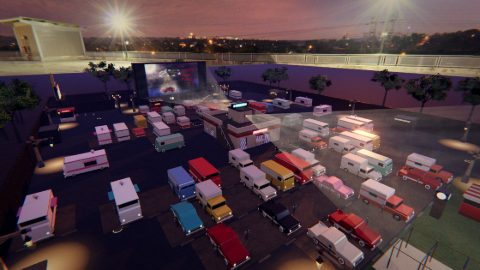
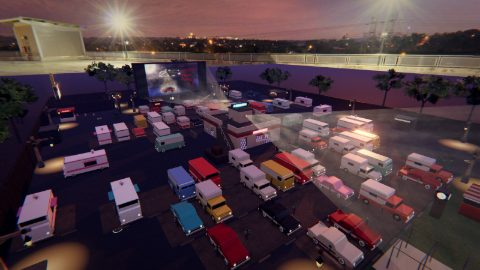
Maps: more cover and a raised second level on Shuran, Drive-In, Tarsa and Pioneer
Measured against a Black Ops 2 reference map (Raid), our maps were the right size and storey heights but too
open and too flat. New 'dock' building piece: a raised concrete platform (about 1 m) with steps, mirrored
with the rest of a map. Shuran: the north-lane house's roof is now reachable (stairs, parapets), a loading
dock in the container yard, a plinth in mid, crates and sandbags (27% -> 30% built over). Drive-In: a raised
viewing deck by the snack bar, an equipment trailer, reel crates, a dumpster and a barrier per half. Tarsa: a
raised market stage on the plaza. Pioneer: barriers and crates in the open plaza and spawn lots. Clean map
audits (Shuran's three old flicker spots fixed too).

diff --git a/js/world.js b/js/world.js
@@ -49,6 +49,7 @@ const TARSA_HALF = [
   // plaza edge: low walls that give the plaza cover without closing it
   [9, 7.5, 0.6, 5, 1.1, 0, 'wall', 0],
   [10, -6.5, 3, 0.8, 1.1, 0, 'sand'],
+  [5, -10, 5, 3, 1.0, 0, 'dock', { steps: 'n', tint: 0xc4b8a4 }],   // a raised market stage: the plaza's second level
   // mid street: low market arcades on alternating sides, so the lane bends instead of running straight
   [27.5, 9.25, 7, 5.5, 3.2, 0, 'house', { s: [['d', -1.6], ['w', 1.6]], w: [['d', -1.2]], e: [['w', 1.3]], props: [['crates', 2, 0.8]] }],   // against the north divider
   [15.5, -9.25, 7, 5.5, 3.2, 0, 'house', { n: [['d', 1.6], ['w', -1.6]], e: [['d', 1.2]], w: [['w', -1.3]], props: [['shelf', -1.6, 0, 1]] }], // against the south divider
@@ -189,6 +190,12 @@ const SHURAN_HALF = [
   [12, -27, 2, 2, 2, 0, 'pallet'],
   [3, -24, 0.8, 3, 1.1, 0, 'sand'],
   [4, -29, 2, 2, 1.8, 0, 'crate'],
+  // a second level: the north-lane house's roof (stairs up its south face, parapets), a loading dock in the yard
+  // and a raised plinth in mid, all a metre or more up (measured against BO2's Raid: 0 / +1 / 3 m levels)
+  [12, 23.85, 7, 0.3, 0.6, 3.45, 'parapet'], [15.35, 20.85, 0.3, 5.7, 0.6, 3.45, 'parapet'], [8.65, 20.85, 0.3, 5.7, 0.6, 3.45, 'parapet'], [10.75, 18.15, 4.5, 0.3, 0.6, 3.45, 'parapet'],
+  [25, -24, 5, 4, 1.0, 0, 'dock', { steps: 'n' }], [24, -24.5, 1.5, 1.5, 1.5, 1.0, 'crate'],
+  [15.5, -3.5, 4, 3, 1.0, 0, 'dock', { steps: 'w' }],
+  [3, 20.2, 1.6, 1.6, 1.6, 0, 'crate'], [3.1, 20.2, 1.3, 1.3, 1.3, 1.6, 'crate'], [16, 26.5, 3, 0.8, 1.1, 0, 'sand'], [22, -28.3, 3, 0.8, 1.1, 0, 'sand'],
   // spawn
   [28.5, 9, 3, 1, 3.5, 0, 'hesco'],
   [29.5, -14, 2, 1, 3.5, 0, 'hesco'],
@@ -206,6 +213,7 @@ const SHURAN_HALF = [
   [0, 30.5, 86, 1, 8, 0, 'boundary'],
   [42.5, 0, 1, 62, 8, 0, 'boundary'],
 ];
+for (let k = 1; k <= 7; k++) SHURAN_HALF.push([9 + k * 0.9, 16.4, 0.9, 3, k * 0.5, 0, 'stairs', k]);   // up to the north-lane house's roof
 const SHURAN_SPAWNS = [[38, -24], [38, -15], [38, -5], [38, 5], [38, 15], [38, 24], [35, -11], [35, 11]];
 const SHURAN_PICKUPS = [
   { type: 'health', pos: [0, 0, 20] },
@@ -377,6 +385,9 @@ const PIONEER_CENTER = [
   [-39, -15.5, 1.9, 1.35, 1.25, 0, 'dumpster', {}], [-24.2, 30.5, 1.35, 1.9, 1.25, 0, 'dumpster', { dark: true }],
   // ---- Smith Tower, up Yesler to the east
   [96, -14, 12, 12, 62, 0, 'tower'],
+  // ---- more cover in the open stretches of the plaza and the spawn lots, and a raised loading dock on James St
+  [-18, -12, 3.2, 0.9, 1.1, 0, 'jersey'], [-21, -15, 1.6, 1.6, 1.6, 0, 'crate'], [38, -18, 1.6, 1.6, 1.6, 0, 'crate'], [38.1, -18, 1.3, 1.3, 1.3, 1.6, 'crate'],
+  [33.5, -6.5, 3.2, 0.9, 1.1, 0, 'jersey'], [-36, 1, 0.9, 3.2, 1.1, 0, 'jersey'],
   // ---- perimeter
   [0, 40.5, 110, 1, 10, 0, 'boundary'], [0, -40.5, 110, 1, 10, 0, 'boundary'],
   [54.5, 0, 1, 82, 10, 0, 'boundary'], [-54.5, 0, 1, 82, 10, 0, 'boundary'],
@@ -727,7 +738,7 @@ export function buildWorld(scene, physics, mapId = 'tarsa') {
     return solidPoly([[cx - w / 2, cz - d / 2], [cx + w / 2, cz - d / 2], [cx + w / 2, cz + d / 2], [cx - w / 2, cz + d / 2]].map(([x, z]) => xfPt(x, z)), h, y0, surface);
   };
   const SURFACE = { dumpster: 'metal', infokiosk: 'wood', bus: 'metal', truck: 'metal', tent: 'wood', kiosk: 'brick', container: 'metal', car: 'metal', barrel: 'metal', crate: 'wood', pallet: 'wood', stall: 'wood', sand: 'concrete', hesco: 'concrete', palm: 'wood', ammo: 'metal', hutwall: 'brick' };
-  const NO_SOLID = new Set(['station', 'house', 'lamp', 'lights', 'light', 'brick', 'tunnel', 'stairdown', 'paving', 'tracks', 'cable', 'tree', 'pergola', 'vlamp', 'tower', 'railing', 'aframe', 'pioneerbldg', 'flatiron', 'droad', 'bollard', 'prism']);
+  const NO_SOLID = new Set(['dock', 'station', 'house', 'lamp', 'lights', 'light', 'brick', 'tunnel', 'stairdown', 'paving', 'tracks', 'cable', 'tree', 'pergola', 'vlamp', 'tower', 'railing', 'aframe', 'pioneerbldg', 'flatiron', 'droad', 'bollard', 'prism']);
 
   // ---------- vehicle models (CC-BY, credited in the README; js/assets.js loads a map's own before it's built) ----------
   // Every vehicle the layouts place has a procedural build and, when its model loaded, the real thing instead:
@@ -1541,6 +1552,23 @@ export function buildWorld(scene, physics, mapId = 'tarsa') {
         // tattered poster
         put(new THREE.PlaneGeometry(0.8, 1.1), M.cloth, cx, 1.8, cz + Math.sign(cz) * -(d / 2 + 0.01), Math.sign(cz) > 0 ? Math.PI : 0, { grime: 0, tint: 0xb9a37a });
         break;
+      case 'dock': {
+        // a raised concrete platform (a loading dock, a stage, a plinth): h high (about 1 m, a second level to
+        // fight from), a steel edge, and steps up the `steps` side ('n' +z, 's' -z, 'e' +x, 'w' -x) at `at` along it
+        const side = (extra && extra.steps) || 's', at = (extra && extra.at) || 0, tint = (extra && extra.tint) || 0xb4ae9e;
+        solid(cx, cz, w, d, h, y0, 'concrete');
+        B(M.concrete, w, h, d, cx, y0, cz, 0, { tint, grime: 0.6, base: y0 });
+        B(M.dark, w + 0.06, 0.1, d + 0.06, cx, y0 + h - 0.106, cz, 0, { grime: 0.2 });   // (its top just under the slab's: no flicker)
+        const nx = side === 'e' ? 1 : side === 'w' ? -1 : 0, nz = side === 'n' ? 1 : side === 's' ? -1 : 0, n = Math.max(1, Math.round(h / 0.45) - 1);
+        for (let k = 0; k < n; k++) {
+          const sh = h * (n - k) / (n + 1), off = 0.3 + k * 0.6;
+          const sx = cx + nx * (w / 2 + off) + (nz ? at : 0), sz = cz + nz * (d / 2 + off) + (nx ? at : 0);
+          const sw = nz ? 1.8 : 0.6, sd = nz ? 0.6 : 1.8;
+          solid(sx, sz, sw, sd, sh, y0, 'concrete');
+          B(M.concrete, sw, sh, sd, sx, y0, sz, 0, { tint: 0xa8a294, grime: 0.5, base: y0 });
+        }
+        break;
+      }
       case 'hesco': {
         // interlocking concrete yard blocks ("lego blocks") stacked in running bond, as walls round a works yard
         const along = d >= w, L = along ? d : w, T = along ? w : d;
@@ -2467,6 +2495,7 @@ export function buildWorld(scene, physics, mapId = 'tarsa') {
     const mx = kind === 'house' ? mirrorSpec(extra) : kind === 'lights' ? [-extra[0], -extra[1], -extra[2], -extra[3]]
       : kind === 'cable' ? [-extra[0], -extra[1], extra[2], -extra[3], -extra[4], extra[5]]
       : kind === 'stairdown' ? { ...extra, dir: -((extra && extra.dir) || 1) }
+      : kind === 'dock' ? { ...extra, steps: flipSide[(extra && extra.steps) || 's'] }
       : kind === 'dumpster' || kind === 'rsign' ? { ...extra, ry: ((extra && extra.ry) || 0) + Math.PI }
       : kind === 'tunnel' ? { ...extra, gaps: (extra && extra.gaps || []).map(([k, at, wd]) => [flipSide[k], -at, wd]) }
       : extra;

diff --git a/js/drivein.js b/js/drivein.js
@@ -1058,6 +1058,18 @@ function build(ctx) {
     placeItem(...it); placeItem(-it[0], -it[1], ...it.slice(2));
   }
   flushFleet();   // the vehicle models placed above
+  // a second level and more hard cover (the lot was a quarter built over; BO2-sized maps run near half): a raised
+  // viewing deck by the snack bar, an equipment trailer by the back fence, film-reel crates under the screen, a
+  // dumpster and a barrier between rows. Point-mirrored like the rest of the lot.
+  for (const s of [1, -1]) {
+    ctx.addKind(s * 7.2, s * 9.5, 4.5, 3.5, 1.2, 0, 'dock', { steps: s > 0 ? 'w' : 'e', tint: 0x9a8a78 }, 0);
+    ctx.addKind(s * 7.8, s * 10.2, 1.4, 1.4, 1.2, 1.2, 'crate', 0, 0);
+    ctx.addKind(s * 30, s * 27, 6, 2.4, 2.6, 0, 'container', 0x8a3d2c, 0);
+    ctx.addKind(s * 38.5, s * 16, 1.6, 1.6, 1.6, 0, 'crate', 0, 0);
+    ctx.addKind(s * 38.6, s * 16, 1.3, 1.3, 1.3, 1.6, 'crate', 0, 0);
+    ctx.addKind(s * 31, s * -21, 1.9, 1.35, 1.25, 0, 'dumpster', { ry: s > 0 ? 0 : Math.PI }, 0);
+    ctx.addKind(s * 5, s * -9, 3.2, 0.9, 1.1, 0, 'jersey', 0, 0);
+  }
 
   // lamps: along the perimeter road and the lawns, arms out over the lot
   for (const s of [-1, 1]) {
